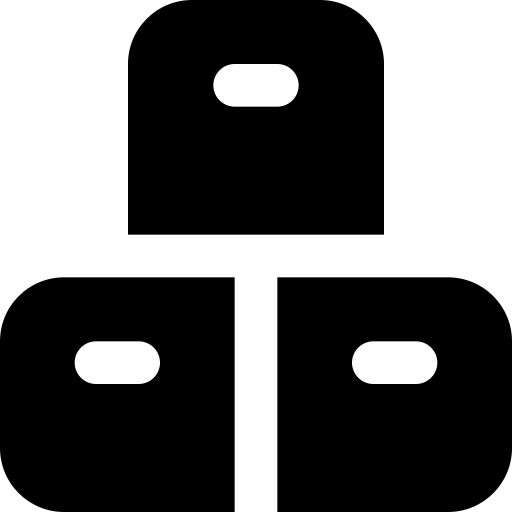
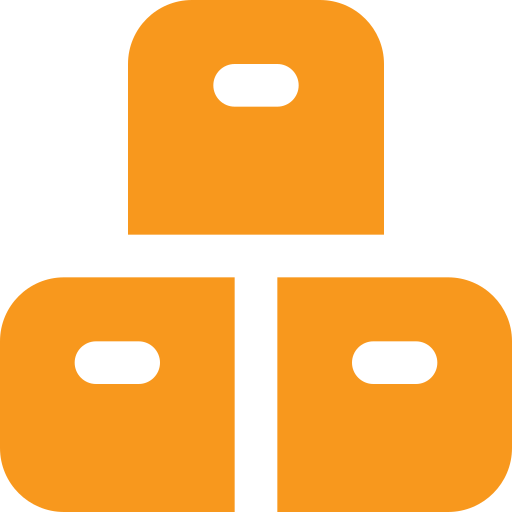
forget-password ยังไม่เสร็จ เลยเปลี่ยนสีไอคอนไปก่อน

diff --git a/app/user/components/side/SideBar3.tsx b/app/user/components/side/SideBar3.tsx
@@ -41,7 +41,7 @@ const SideBar2 = () => {
         <>
         <div className='flex'>
             <div className='sidebar relative z-0' style={{
-                width: isCollapsed ? '50px' : '250px', // Adjust min-width dynamically
+                width: isCollapsed ? '50px' : '230px', // Adjust min-width dynamically
                 transition: 'width .2s ease', // Smooth transition
                 }}>
                 <Link href="/" style={{margin:'0', padding:'0'}}>
@@ -187,7 +187,7 @@ const SideBar2 = () => {
         </div>
             
         <div className="sidebar fixed" style={{
-            width: isCollapsed ? '50px' : '250px', // Adjust min-width dynamically
+            width: isCollapsed ? '50px' : '230px', // Adjust min-width dynamically
             transition: 'width .2s ease', // Smooth transition
             fontFamily: anuphan.style.fontFamily,
             }}>
@@ -247,10 +247,11 @@ const SideBar2 = () => {
                             alt="dashboard image"
                             width={30} height={30}
                             />
-                            <span className="menu-list" style={{ display: isCollapsed ? 'none' : 'block' }}>กระเป๋าเงิน</span> 
+                            <div className="menu-list " style={{ display: isCollapsed ? 'none' : 'flex' }}>
+                                <span>กระเป๋าเงิน</span>
+                                <span className="menu-list ml-auto mr-4 transform transition-transform duration-200" style={{ transform: isSubmenuOpen ? 'rotate(180deg)' : 'rotate(0deg)' , minWidth:"unset",display: isCollapsed ? 'none' : 'block'}}>▼</span>
+                            </div> 
                         </div>
-                        
-                        <span className="menu-list ml-auto transform transition-transform duration-200" style={{ transform: isSubmenuOpen ? 'rotate(180deg)' : 'rotate(0deg)' , minWidth:"unset",display: isCollapsed ? 'none' : 'block'}}>▼</span>
                     </a>
                 </li>
                 <div className="overflow-hidden transition-all duration-200 ease-in-out" style={{ maxHeight: isSubmenuOpen && !isCollapsed ? '200px' : '0'}}>
@@ -294,10 +295,11 @@ const SideBar2 = () => {
                             alt="manual image"
                             width={30} height={30}
                             />
-                            <span className="menu-list" style={{ display: isCollapsed ? 'none' : 'block' }}>คู่มือการใช้งาน</span> 
+                            <div className="menu-list " style={{ display: isCollapsed ? 'none' : 'flex' }}>
+                                <span>คู่มือการใช้งาน</span>
+                                <span className="menu-list ml-auto mr-4 transform transition-transform duration-200" style={{ transform: isSubmenuOpen2 ? 'rotate(180deg)' : 'rotate(0deg)' , minWidth:"unset",display: isCollapsed ? 'none' : 'block'}}>▼</span>
+                            </div> 
                         </div>
-                        
-                        <span className="menu-list ml-auto transform transition-transform duration-200" style={{ transform: isSubmenuOpen2 ? 'rotate(180deg)' : 'rotate(0deg)' , minWidth:"unset",display: isCollapsed ? 'none' : 'block'}}>▼</span>
                     </a>
                 </li>
                 <div className="overflow-hidden transition-all duration-200 ease-in-out" style={{ maxHeight: isSubmenuOpen2 && !isCollapsed ? '200px' : '0'}}>

diff --git a/app/forget-password/page.tsx b/app/forget-password/page.tsx
@@ -1,0 +1,85 @@
+"use client"
+
+import React, {useState} from 'react'
+import Link from 'next/link'
+import { signIn, useSession } from 'next-auth/react';
+import { useRouter,redirect } from 'next/navigation';
+import { FormEvent } from "react";
+import { connectMongoDB } from "@/lib/mongodb"
+import NavBar from '../../components/header'
+import Footer from '../../components/Footer'
+
+function forgotPassword() {
+
+    const [email, setEmail] = useState("");
+    const [error, setError] = useState("");
+    const [success, setSuccess] = useState("");
+
+    const router = useRouter();
+
+    const { data: session } = useSession();
+    if (session) router.replace('profile');
+
+  const handleSubmit = async (e: FormEvent) => {
+    e.preventDefault();
+
+      try {
+        const res = await fetch("/api/forget-password", {
+            method: "POST",
+            headers: {
+                "Content-Type": "application/json"
+            },
+            body: JSON.stringify({email})
+        });
+
+        if (res.ok) {
+            const form = e.target as HTMLFormElement;
+            setError("");
+            setSuccess("ลิงค์สำหรับรีเซ็ตรหัสผ่าน ถูกส่งไปยังอีเมลของคุณแล้ว");
+            // form.reset();
+            router.push("/login");
+
+        } else {
+            setError("อีเมลนี้ยังไม่เคยลงทะเบียน");
+            setSuccess("")
+            const errorData = await res.json();
+            console.log("Error response:", errorData);
+        }
+
+      } catch(error) {
+        setError("เกิดข้อผิดพลาด กรุณาลองใหม่อีกครั้ง")
+        console.log(error)
+      }
+  }
+
+  return (
+    <>
+      <NavBar/>
+        <div className="flex flex-grow">
+          <div className='hidden md:flex justify-center items-center w-1/2' style={{marginBlock:"5%"}}>
+            <img src='/banner.jpg' alt="banner image" className='' style={{width:"60%"}}></img>
+          </div>
+          <div className='flex flex-col justify-center items-center w-full md:w-1/2'>
+            <div className='shadow-xl px-14 py-14 rounded-lg' style={{}}>
+                <p className='text-xl'> กรุณากรอกอีเมลของคุณที่ต้องการจะรีเซ็ตรหัสผ่าน </p>
+                <form onSubmit={handleSubmit} className='mt-14'>
+
+                    {error && (
+                        <div className='bg-red-500 w-fit text-sm text-white py-1 px-3 rounded-md mt-2'>
+                            {error}
+                        </div>
+                    )}
+
+                    <input onChange={(e) => setEmail(e.target.value)} className='block bg-gray-300 p-2 my-3 rounded-md w-full' type="email" placeholder='Enter your email'/>
+                    <button type='submit' className='bg-red-600 p-2 my-3 rounded-md text-white w-full'> ยืนยัน </button>
+                </form>
+                <p className='my-3 text-start'> หากต้องการเข้าสู่ระบบ <Link className='text-red-500 hover:underline' href="/login">คลิกที่นี่</Link></p>
+            </div>
+          </div>
+        </div>
+      <Footer/>
+    </>
+  )
+}
+
+export default forgotPassword

diff --git a/app/api/forget-password/route.js b/app/api/forget-password/route.js
@@ -1,0 +1,64 @@
+import { NextResponse } from "next/server";
+import { connectMongoDB } from "@/lib/mongodb";
+import User from "@/models/user";
+import crypto from "crypto"
+import { MailerSend, EmailParams, Sender, Recipient } from "mailersend";
+
+export async function POST(req) {
+        
+    try {
+        const { email } = await req.json();
+
+        await connectMongoDB();
+
+        // Fetch the latest user to determine the last user_id
+        const existingUser = await User.findOne({ email }); // Get the latest user by creation date
+        
+
+        if (!existingUser) {
+            return NextResponse("อีเมลนี้ยังไม่เคยลงทะเบียน!", { status: 400})
+        }
+
+        const resetToken = crypto.randomBytes(20).toString('hex');
+        const passwordResetToken = crypto.createHash("sha256").update(resetToken).digest("hex");
+
+        const passwordResetExpires = Date.now() + 3600000;
+
+        existingUser.resetToken = passwordResetToken;
+        existingUser.resetTokenExpiry = passwordResetExpires;
+        const resetUrl = `localhost:3000/reset-password/${resetToken}`
+
+        console.log(resetUrl)
+
+        const mailerSend = MailerSend({
+            apiKey: "mlsn.dcac2ff340878404cbcfa5be55a561dec4be0471b93b51f2b9f051122016cb81",
+          });
+
+        const sentFrom = Sender("trial-jpzkmgqr0x14059v.mlsender.net", "nextjs14");
+
+        const recipients = [
+            Recipient(existingUser.email, existingUser.name)
+          ];
+
+        const emailParams = EmailParams()
+          .setFrom(sentFrom)
+          .setTo(recipients)
+          .setReplyTo(sentFrom)
+          .setSubject("This is a Subject")
+          .setHtml("<strong>This is the HTML content</strong>")
+          .setText("click this url to reset password: " + resetUrl);
+
+        await mailerSend.email.send(emailParams);
+
+        return NextResponse.json({ message: "ลงทะเบียนผู้ใช้งานสำเร็จ" }, { status: 201 });
+    } catch (error) {
+        return NextResponse.json({ message: "เกิดข้อผิดพลาดในการลงทะเบียน", error: error.message }, { status: 500 });
+    }
+
+        // try {
+        //     await existingUser.save();
+        //     return new NextResponse.json({ message: "ลิงค์สำหรับรีเซ็ตรหัสผ่านถูกส่งไปยังอีเมลของคุณแล้ว" }, { status: 200 });
+        // } catch(error) {
+        //     return new NextResponse.json({ message: "failed sending email. try again"}, { status: 500});
+        // }
+}

diff --git a/app/admin/components/side/SideBar_Admin.tsx b/app/admin/components/side/SideBar_Admin.tsx
@@ -34,7 +34,7 @@ const SideBar2 = () => {
     <>
     <div className='flex'>
       <div className='sidebar relative z-0' style={{
-          width: isCollapsed ? '50px' : '250px', // Adjust min-width dynamically
+          width: isCollapsed ? '50px' : '230px', // Adjust min-width dynamically
           transition: 'width .2s ease', // Smooth transition
         }}>
           <Link href="/" style={{margin:'0', padding:'0'}}>
@@ -174,7 +174,7 @@ const SideBar2 = () => {
     </div>
     
     <div className="sidebar fixed" style={{
-          width: isCollapsed ? '50px' : '250px', // Adjust min-width dynamically
+          width: isCollapsed ? '50px' : '230px', // Adjust min-width dynamically
           transition: 'width .2s ease', // Smooth transition
           fontFamily: anuphan.style.fontFamily,
         }}>
@@ -252,10 +252,11 @@ const SideBar2 = () => {
                   alt="dashboard image"
                   width={30} height={30}
                   />
-                  <span className="menu-list" style={{ display: isCollapsed ? 'none' : 'block' }}>กระเป๋าเงิน</span> 
+                  <div className="menu-list " style={{ display: isCollapsed ? 'none' : 'flex' }}>
+                    <span>กระเป๋าเงิน</span>
+                    <span className="menu-list ml-auto mr-4 transform transition-transform duration-200" style={{ transform: isSubmenuOpen ? 'rotate(180deg)' : 'rotate(0deg)' , minWidth:"unset",display: isCollapsed ? 'none' : 'block'}}>▼</span>
+                    </div> 
               </div>
-              
-              <span className="menu-list ml-auto transform transition-transform duration-200" style={{ transform: isSubmenuOpen ? 'rotate(180deg)' : 'rotate(0deg)' , minWidth:"unset",display: isCollapsed ? 'none' : 'block'}}>▼</span>
           </a>
           
         </li>

diff --git a/app/login/page.tsx b/app/login/page.tsx
@@ -62,7 +62,7 @@ function LoginPage() {
                     <input onChange={(e) => setPassword(e.target.value)} className='block bg-gray-300 p-2 my-3 rounded-md w-full' type="text" placeholder='Enter your password'/>
                     <div className='flex my-3 justify-between'>
                       <p> <input type='checkbox'></input> จดจำฉัน </p>
-                      <a href='#' className='text-red-500'> ลืมรหัสผ่าน </a>
+                      <a href='/forget-password' className='text-red-500'> ลืมรหัสผ่าน </a>
                     </div>
                     <button type='submit' className='bg-red-600 p-2 my-3 rounded-md text-white w-full'> เข้าสู่ระบบ </button>
                 </form>

diff --git a/app/api/register/route.js b/app/api/register/route.js
@@ -7,6 +7,7 @@ export async function POST(req) {
     try {
         const { name, email, password } = await req.json();
         const hashedPassword = await bcrypt.hash(password, 10);
+        const resetTokenExpiry = Date.now() + 3600000;
 
         await connectMongoDB();
 
@@ -27,7 +28,9 @@ export async function POST(req) {
             email, 
             password: hashedPassword, 
             user_id: newUserId,
-            user_type: "normal"  // Default value for user_type
+            user_type: "normal",  // Default value for user_type
+            resetToken: "",
+            resetTokenExpiry,
         });
 
         return NextResponse.json({ message: "ลงทะเบียนผู้ใช้งานสำเร็จ" }, { status: 201 });

diff --git a/testsendmail.js b/testsendmail.js
@@ -1,0 +1,23 @@
+const { MailerSend, EmailParams, Sender, Recipient } = require("mailersend");
+
+const mailerSend = new MailerSend({
+  apiKey: "mlsn.dcac2ff340878404cbcfa5be55a561dec4be0471b93b51f2b9f051122016cb81",
+});
+
+const sentFrom = new Sender("petonggaming1996@gmail.com","MailerSend");
+
+const recipients = [
+  new Recipient("patong29149@gmail.com", "nakarin")
+];
+
+const emailParams = new EmailParams()
+  .setFrom(sentFrom)
+  .setTo(recipients)
+  .setSubject("This is a Subject")
+  .setHtml("<strong>This is the HTML content</strong>")
+  .setText("This is the text content");
+
+mailerSend.email
+  .send(emailParams)
+  .then((response) => console.log(response))
+  .catch((error) => console.log(error));

diff --git a/models/user.js b/models/user.js
@@ -30,6 +30,14 @@ const userSchema = new Schema(
             required: true,
             default: "normal", // New field with default value "normal"
         },
+        resetToken: {
+            type: String,
+            required : false,
+        },
+        resetTokenExpiry: {
+            type: Date,
+            required: false,
+        },
     },
     { timestamps: true }
 );
